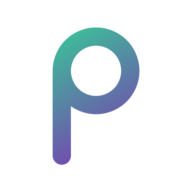
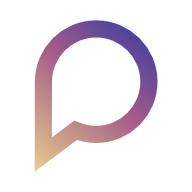
Pretty colors

Changed region(s): [[0.1562, 0.0938, 0.8438, 0.9062]]

diff --git a/public/index.html b/public/index.html
@@ -21,30 +21,21 @@
 </head>
 <body ng-controller="mainController">
 <div ng-cloak>
-    <section layout="column" layout-gt-md="row" flex>
-        <md-sidenav md-component-id="nav-menu" class="nav-menu" md-is-locked-open="$mdMedia('gt-md')">
+    <section layout="row" flex>
+        <md-sidenav md-component-id="nav-menu" class="nav-menu" ng-class="{ 'full': full() }" md-is-locked-open="true">
             <div id="nav-logo">
-                <md-icon class="logo" md-svg-icon="assets/logo.svg" ng-click="navigate(pages.home)"></md-icon>
+                <md-icon class="logo" ng-class="{ 'full': full() }" md-svg-icon="assets/logo.svg" ng-click="navigate(pages.home)"></md-icon>
             </div>
             <ul>
                 <li ng-repeat="page in pages" ng-class="{ 'nav-active': page === active }">
                     <a ng-click="navigate(page)">
                         <i class="fa fa-fw fa-{{page.fa}}" aria-hidden="true"></i>
-                        {{page.title}}
+                        <span ng-show="full()">{{page.title}}</span>
                     </a>
                 </li>
             </ul>
         </md-sidenav>
-        <md-toolbar id="toolbar" class="md-toolbar-tools" md-scroll-shrink hide-gt-md>
-            <a ng-click="hamburgerClicked()">
-                <i class="fa fa-fw fa-bars"></i>
-            </a>
-            {{active.title}}
-        </md-toolbar>
-        <md-content class="content" flex>
-            <ng-view></ng-view>
-        </md-content>
-
+        <ng-view></ng-view>
     </section>
 </div>
 </body>

diff --git a/public/style.css b/public/style.css
@@ -4,10 +4,18 @@ body {
     font-family: 'Lato', sans-serif;
 }
 
-.nav-menu {
+md-sidenav.nav-menu {
     font-weight: 300;
-    width: 200px;
+    width: 50px;
+    min-width: 50px;
+    max-width: 50px;
     background: transparent;
+}
+
+md-sidenav.nav-menu.full {
+    width: 200px;
+    min-width: 200px;
+    max-width: 200px;
 }
 
 .nav-menu ul {
@@ -27,21 +35,27 @@ body {
 .nav-menu ul li:hover,
 .nav-menu ul li.nav-active {
     background: #373737;
-    border-left: 3px solid #3dbd99;
+    border-left: 3px solid #aa6ca8;
 }
 
 .nav-menu ul li a {
     display: block;
-    padding: 10px 20px;
+    padding: 10px 0;
+    margin: auto;
     text-decoration: none;
     color: #dfdfdf;
     font-size: 18px;
     cursor: default;
 }
 
+.nav-menu.full ul li a {
+    padding: 10px 20px;
+    margin: 0;
+}
+
 .nav-menu ul li:hover a,
 .nav-menu ul li.nav-active a {
-    color: #3dbd99;
+    color: #aa6ca8;
 }
 
 #nav-logo {
@@ -49,11 +63,17 @@ body {
 }
 
 #nav-logo .logo {
+    width: 32px;
+    height: 32px;
+    padding: 16px 0;
+    margin: auto;
+    outline: 0;
+}
+
+#nav-logo .logo.full {
     width: 64px;
     height: 64px;
     padding: 32px 0;
-    margin: auto;
-    outline: 0;
 }
 
 #nav-logo md-icon.logo {
@@ -64,8 +84,4 @@ md-content.content {
     background: transparent;
     color: #dfdfdf;
     font-family: 'Lato', sans-serif;
-}
-
-#toolbar {
-    background: #373737;
 }

diff --git a/public/app.js b/public/app.js
@@ -34,8 +34,9 @@ app.controller('mainController', [
     '$scope',
     '$location',
     '$mdSidenav',
+    '$mdMedia',
     'httpService',
-    function ($scope, $location, $mdSidenav, http) {
+    function ($scope, $location, $mdSidenav, $mdMedia, http) {
         $scope.pages = _pages;
         $scope.active = $scope.pages.home;
 
@@ -48,8 +49,8 @@ app.controller('mainController', [
             }
         };
 
-        $scope.hamburgerClicked = function () {
-            $mdSidenav('nav-menu').toggle();
+        $scope.full = function () {
+            return $mdMedia('gt-md');
         };
     }
 ]);
